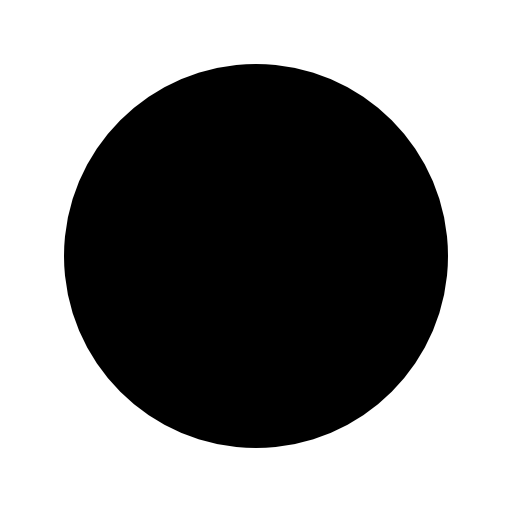
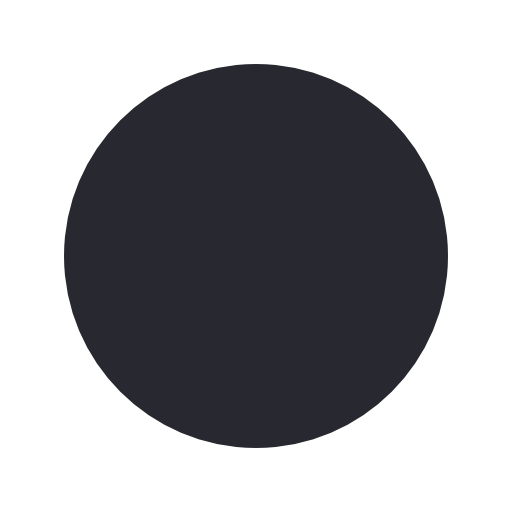
V5.7.6 - Themes

diff --git a/app/globals.css b/app/globals.css
@@ -16,14 +16,14 @@
 /* Theming */
 @media (prefers-color-scheme: light) {
   :root {
-    --primary: rgb(255 255 255);
-    --secondary: rgb(0 0 0);
-    --tertiary: rgb(77 77 77);
-    --quaternary: rgb(128 128 128);
-    --quinary: rgb(128 128 128 / 12.5%);
-    --senary: rgb(52 199 89);
-    --septenary: rgb(255 141 40);
-    --octonary: rgb(255 56 60);
+    --primary: rgb(235 235 240);
+    --secondary: rgb(36 36 38);
+    --tertiary: rgb(108 108 112);
+    --quaternary: rgb(142 142 147);
+    --quinary: rgb(142 142 147 / 12.5%);
+    --senary: rgb(0 137 50);
+    --septenary: rgb(197 83 0);
+    --octonary: rgb(233 21 45);
   }
 
   html {
@@ -33,14 +33,14 @@
 
 @media (prefers-color-scheme: dark) {
   :root {
-    --primary: rgb(0 0 0);
-    --secondary: rgb(255 255 255);
-    --tertiary: rgb(204 204 204);
-    --quaternary: rgb(153 153 153);
-    --quinary: rgb(153 153 153 / 12.5%);
-    --senary: rgb(48 209 88);
-    --septenary: rgb(255 146 48);
-    --octonary: rgb(255 66 69);
+    --primary: rgb(28 28 30);
+    --secondary: rgb(242 242 247);
+    --tertiary: rgb(174 174 178);
+    --quaternary: rgb(124 124 128);
+    --quinary: rgb(124 124 128 / 12.5%);
+    --senary: rgb(74 217 104);
+    --septenary: rgb(255 160 86);
+    --octonary: rgb(255 97 101);
   }
 
   html {

diff --git a/app/layout.js b/app/layout.js
@@ -42,7 +42,7 @@ export const metadata = {
         url: "https://www.liamschenk.ch/metadata/og-image.jpg",
         width: 1200,
         height: 630,
-        alt: "Liam Schenk Portfolio – Startseite",
+        alt: "Portfolio von Liam Schenk, gelerntem Mediamatiker mit Abschluss bei Swisscom.",
       },
     ],
     locale: "de_CH",
@@ -60,7 +60,7 @@ export const metadata = {
 export const viewport = {
   width: "device-width",
   initialScale: 1,
-  themeColor: "#ffffff",
+  themeColor: "#ebebf0",
 };
 
 const personSchema = {
